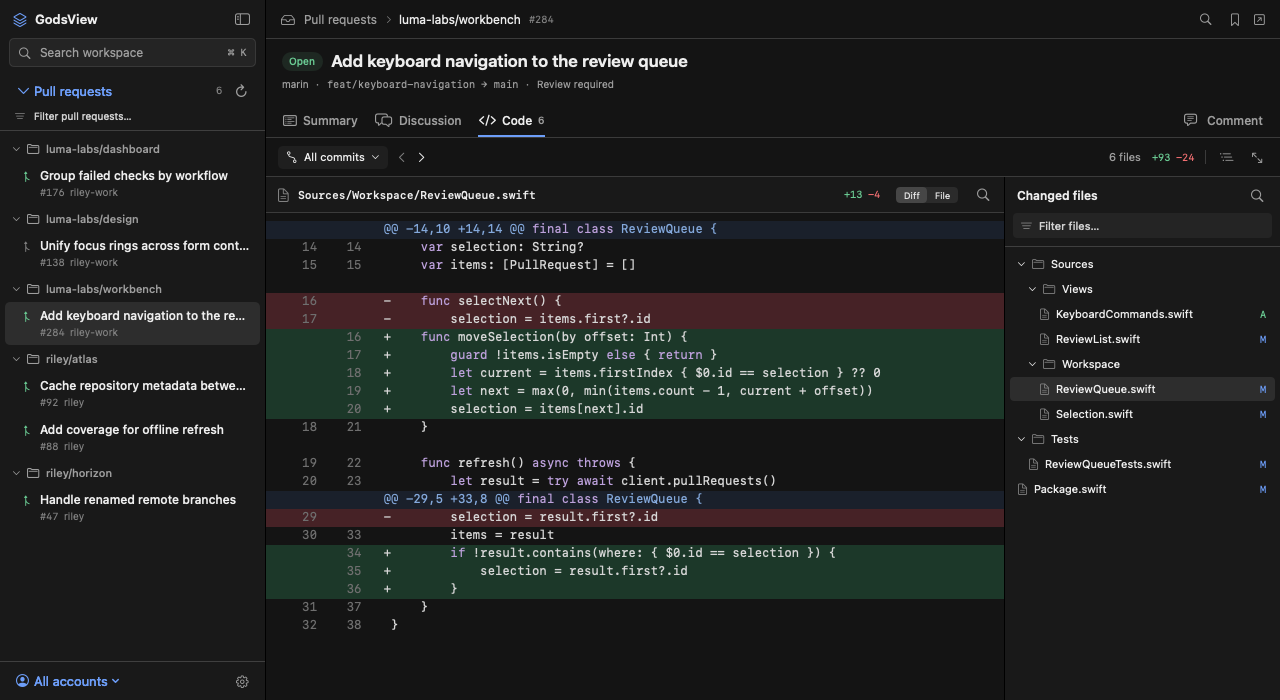
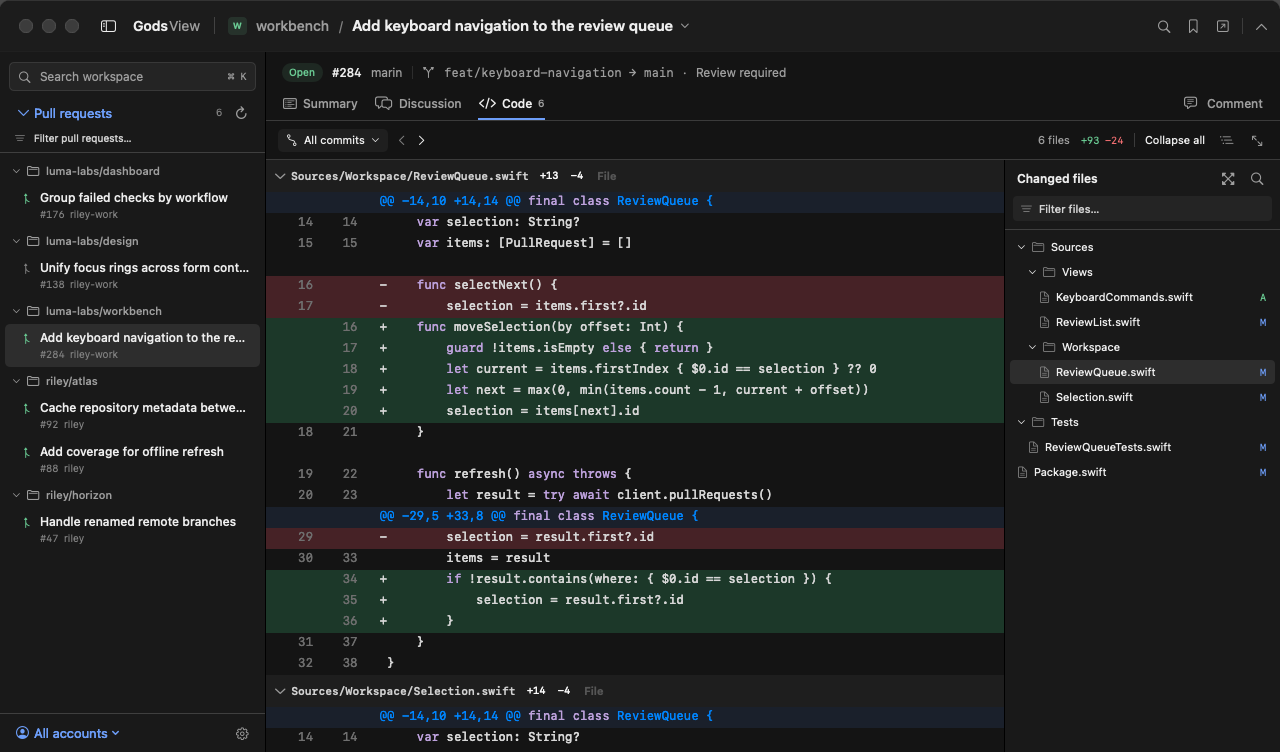
release: package GodsView 0.3.0 and document review navigation

diff --git a/README.md b/README.md
@@ -29,7 +29,11 @@ If you already use `gh`, GodsView discovers your existing accounts. To connect a
 
 ## Reviewing code
 
-The **Code** tab opens with the PR diff and its changed-file tree. Select a path or filter the tree by name. Use **File** to read the complete UTF-8 blob for that revision, including the previous blob for deleted files when available. If GitHub omits a patch, the viewer offers the full file. GitHub limits a PR or commit file listing to 3,000 entries.
+The native title bar shows the repository and current PR. Open the title menu to switch PRs within that repository.
+
+The **Code** tab opens with the PR diff and its changed-file tree. Scroll continuously through every changed file. Click a file header to fold its patch, or use **Collapse all** and **Expand all**. Selecting a path in the tree or palette expands it and scrolls it into view. The PR header folds as you scroll down and returns at the top. Use its chevron for manual control. Use **File** to read the complete UTF-8 blob for that revision, including the previous blob for deleted files when available. If GitHub omits a patch, the viewer offers the full file. GitHub limits a PR or commit file listing to 3,000 entries.
+
+Refresh with **⌘R** to check GitHub for updated revisions. GodsView also checks when you return to the app after a minute. It reuses diffs when the base and head SHAs match and caches full-file contents by blob SHA. Caches live in memory for the app session.
 
 Choose **All commits** above the diff to search the PR history by message or SHA. Picking a commit shows its changes against its parent. The arrows beside the selector step through the history, retaining the selected path when it exists in the next commit.
 
@@ -44,6 +48,8 @@ Choose **All commits** above the diff to search the PR history by message or SHA
 | ⌘F | Find text inside the current patch or full file |
 | ⇧⌘Return | Enter or leave the full-screen file viewer |
 | ⌘B | Toggle the PR sidebar |
+| ⌘L | Toggle the Changed files sidebar |
+| Hold ⌘, then press 1–9 | Show numbered hints and open the corresponding visible PR |
 
 In a search palette, use the arrow keys to select, Return to open, and Escape to dismiss. The file-tree button also works in full-screen mode.
 
